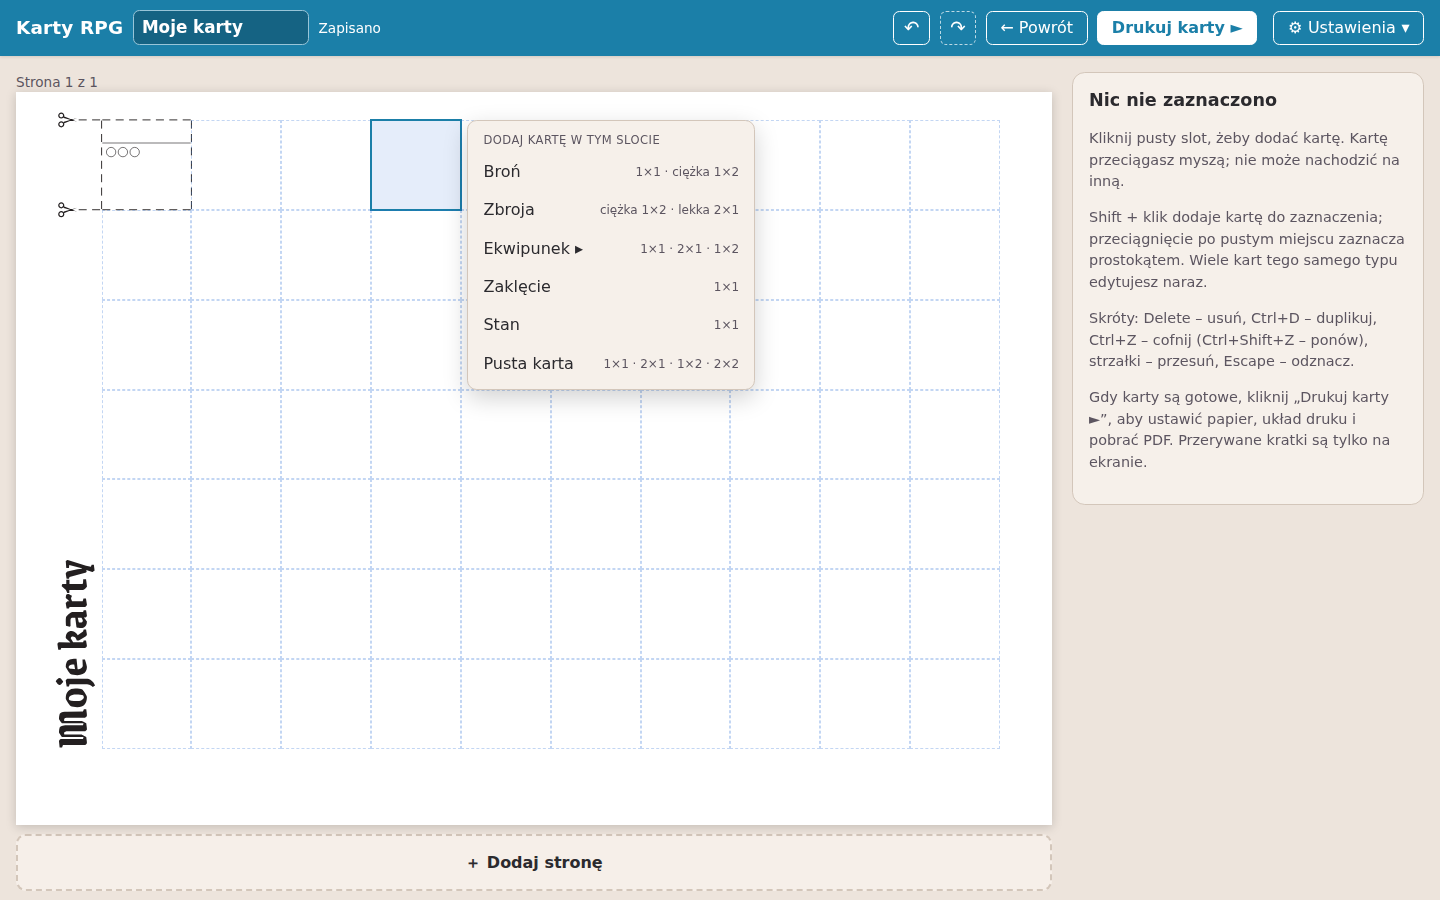
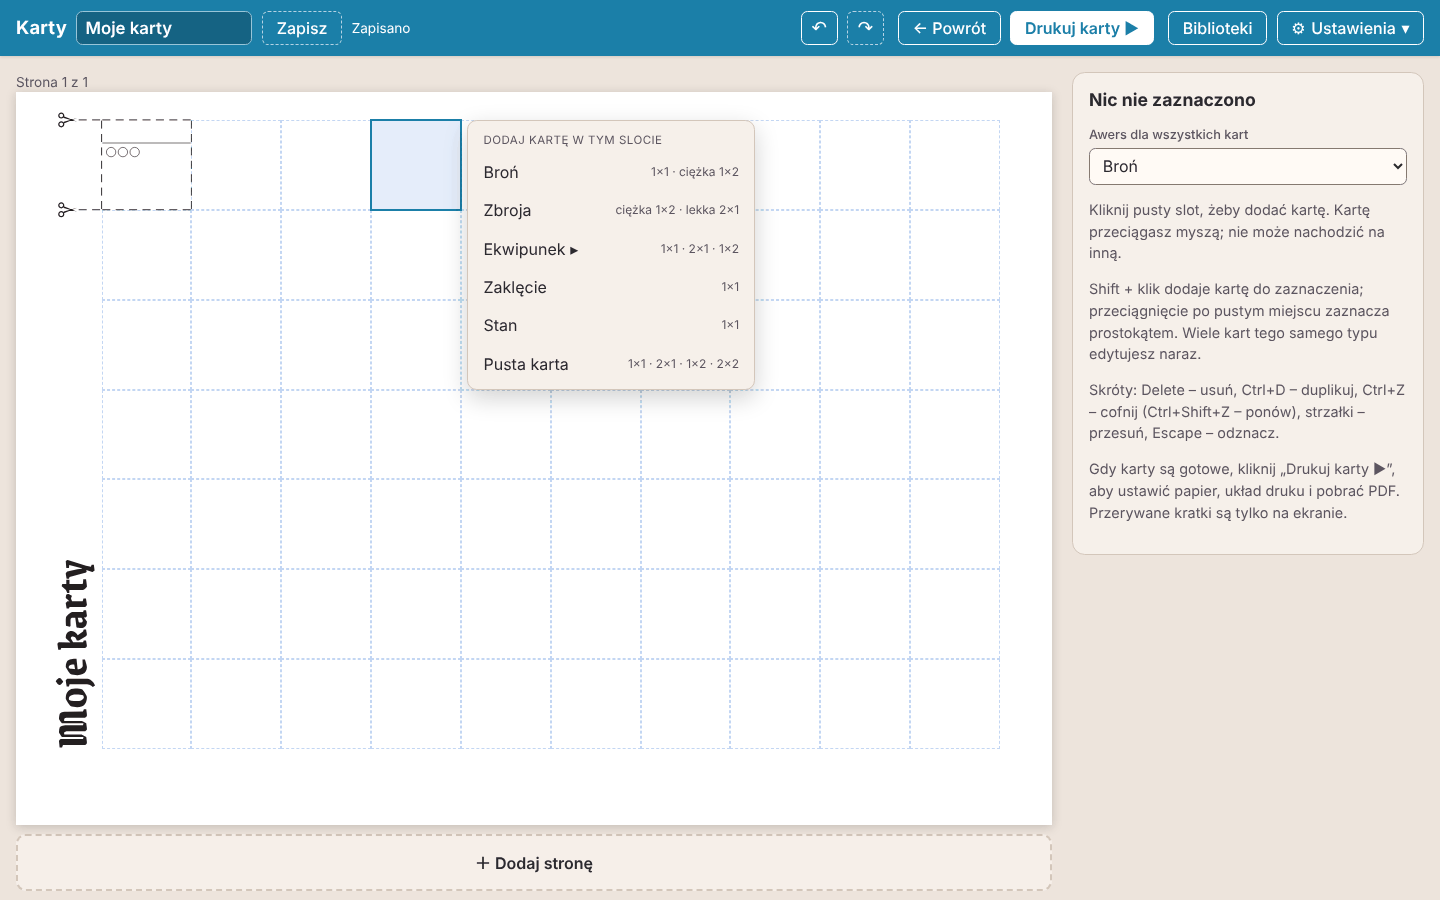
Instrukcja po N8: nowe zrzuty, zrzut Bibliotek, opisy wspólnej biblioteki (#101)
- Odświeżone wszystkie zrzuty instrukcji (PL i EN) z obecnego wyglądu aplikacji.
- Nowy zrzut „biblioteki” (zakładka Ozdobniki z zaimportowanym SVG) w sekcji Biblioteki.
- Generator zrzutów podmienia numer wersji w stopce na każdym ekranie.
- Tekst: tło i eksport szablonu z biblioteki, czcionki Google Fonts trafiają do biblioteki,
  import SVG przez okno z raportem i „Dodaj do biblioteki”, przyciski zakładki Ozdobniki,
  podpis zrzutu startu.

Claude-Session: https://claude.ai/code/session_01KHG9oNfKsbMdG6hS8f85sV

diff --git a/instrukcja/index.html b/instrukcja/index.html
@@ -245,8 +245,8 @@
               alt="Ekran startowy aplikacji w jasnym motywie, z trzema kolumnami"
             />
             <figcaption>
-              Ekran startowy: przyciski po lewej, „Moje projekty” pośrodku i „Importuj pliki…” po
-              prawej.
+              Ekran startowy: po lewej nowy projekt i nowy szablon, pośrodku zakładki „Moje
+              projekty” i „Moje szablony”, po prawej „Importuj pliki…”.
             </figcaption>
           </figure>
           <ol>
@@ -450,7 +450,7 @@
             </li>
             <li>
               W „Rodzaj tła” wybierz: „Brak” (papier), „Kolor”, „Obraz” (tekstura JPG/PNG z
-              biblioteki projektu) albo „Wzór”.
+              biblioteki) albo „Wzór”.
             </li>
             <li>
               Wzory: linie pionowe, linie poziome, kratka, romby (dwa zestawy linii ukośnych), linie
@@ -479,12 +479,16 @@
             <li>
               Kliknij „Importuj SVG…” i wybierz plik. Aplikacja sprawdza plik: usuwa skrypty, obrazy
               i odwołania do zewnętrznych plików. Tekst trzeba zamienić na krzywe, a plik może mieć
-              do 512 KB. Nowy ozdobnik od razu jest zaznaczony.
+              do 512 KB. Otworzy się okno importu z raportem, co pominięto, i podglądem.
             </li>
             <li>
-              W „Użyj jako” wskaż, do czego element służy: „motyw”, „narożnik”, „zakończenie”,
-              „środek separatora”, „kształt wartości” albo „ramka 9-slice”. W „Kolor” wybierz
-              „jednolity (kolorowalny)” albo „zachowaj kolory”. Zmiany zapisują się od razu.
+              W oknie w „Użyj jako” wskaż, do czego element służy: „motyw”, „narożnik”,
+              „zakończenie”, „środek separatora”, „kształt wartości” albo „ramka 9-slice”. W „Kolor”
+              wybierz „jednolity (kolorowalny)” albo „zachowaj kolory” i wpisz „Nazwa”.
+            </li>
+            <li>
+              Kliknij „Dodaj do biblioteki” („Anuluj” przerywa import). Nowy ozdobnik jest
+              zaznaczony, a jego ustawienia zmienisz w panelu obok. Zmiany zapisują się od razu.
             </li>
           </ol>
           <p>
@@ -932,8 +936,8 @@
             <li>
               W „Opcje druku i arkusza” oraz w „Biblioteki” (zakładka „Czcionki”) sekcja „Katalog
               Google Fonts” pozwala przeglądać kroje z polskimi znakami i dodawać je przyciskiem
-              „Pobierz”. Pobrana czcionka zapisuje się w projekcie i działa później bez dostępu do
-              sieci.
+              „Pobierz”. Pobrana czcionka trafia do biblioteki, jest dostępna we wszystkich
+              projektach i działa później bez dostępu do sieci.
             </li>
             <li>
               W sekcji „Opcje PDF” przełącznik „Niewidoczna warstwa tekstowa w PDF (wyszukiwanie i
@@ -1004,8 +1008,8 @@
           <ul>
             <li>
               W „Opcje druku i arkusza”, w sekcji „Szablony projektu”, kliknij „Eksportuj” przy
-              szablonie. Powstaje plik <code>.kartyrpg-szablon</code> z elementami biblioteki
-              ozdobników, których szablon używa. Podkład ze wzoru do niego nie trafia.
+              szablonie. Powstaje plik <code>.kartyrpg-szablon</code> z kopiami ozdobników, czcionek
+              i obrazów, których szablon używa. Podkład ze wzoru do niego nie trafia.
             </li>
             <li>
               „Importuj szablon…” w tej samej sekcji albo „Importuj szablon” na ekranie „Stwórz
@@ -1046,6 +1050,19 @@
             układ: przycisk „Dodaj…”, pole wyszukiwania po nazwie i podglądy. Przy każdym podglądzie
             są przyciski „Zmień nazwę”, „Pobierz” i „Usuń”.
           </p>
+          <figure>
+            <img
+              src="/instrukcja-zrzuty/pl/biblioteki.png"
+              width="1440"
+              height="900"
+              loading="lazy"
+              alt="Strona Biblioteki na zakładce Ozdobniki z jednym własnym ozdobnikiem i jego ustawieniami obok"
+            />
+            <figcaption>
+              Zakładka „Ozdobniki” po imporcie pliku SVG. Po prawej podgląd na karcie i wybór „Użyj
+              jako”.
+            </figcaption>
+          </figure>
           <ul>
             <li>
               „Obrazy” to pliki PNG i JPG. Ten sam plik wgrany drugi raz nie tworzy nowego wpisu.
@@ -1057,7 +1074,8 @@
             </li>
             <li>
               „Ozdobniki” to ozdobniki i ramki: plik SVG, PNG (ramka 9-slice z wcięciami po trzecim)
-              albo paczka <code>.kartyrpg-ozdobnik</code>. „Pobierz” zapisuje paczkę do pliku.
+              albo paczka <code>.kartyrpg-ozdobnik</code>. Oprócz „Dodaj…” są tu przyciski „Importuj
+              SVG…” (okno z raportem) i „Dodaj ramkę z PNG…”. „Pobierz” zapisuje paczkę do pliku.
               Kliknięcie podglądu otwiera ustawienia ozdobnika: rodzaj, kolor, nazwę, prostokąt na
               tekst kształtu i wcięcia ramki 9-slice. Ozdobniki systemowe są widoczne do wglądu.
             </li>
@@ -1160,8 +1178,8 @@
               alt="The start screen in the light theme, with three columns"
             />
             <figcaption>
-              The start screen: buttons on the left, “My projects” in the middle and “Import files…”
-              on the right.
+              The start screen: a new project and a new template on the left, the “My projects” and
+              “My templates” tabs in the middle and “Import files…” on the right.
             </figcaption>
           </figure>
           <ol>
@@ -1367,7 +1385,7 @@
             </li>
             <li>
               In “Background type” choose “None” (paper), “Colour”, “Image” (a JPG/PNG texture from
-              the project library) or “Pattern”.
+              the library) or “Pattern”.
             </li>
             <li>
               Patterns: vertical lines, horizontal lines, grid, diamonds (two sets of diagonal
@@ -1397,12 +1415,17 @@
             <li>
               Click “Import SVG…” and choose a file. The app checks the file and removes scripts,
               images and references to external files. Text has to be converted to outlines, and the
-              file can be up to 512 KB. The new ornament is selected right away.
+              file can be up to 512 KB. An import window opens with a report of what was skipped and
+              a preview.
             </li>
             <li>
-              Under “Use as”, say what the element is for: “pattern”, “corner”, “end cap”, “divider
-              center”, “value shape” or “9-slice frame”. Under “Color”, choose “solid (recolorable)”
-              or “keep the colors”. Changes are saved at once.
+              In the window, under “Use as”, say what the element is for: “pattern”, “corner”, “end
+              cap”, “divider center”, “value shape” or “9-slice frame”. Under “Color”, choose “solid
+              (recolorable)” or “keep the colors”, and fill in “Name”.
+            </li>
+            <li>
+              Click “Add to the library” (“Cancel” stops the import). The new ornament is selected,
+              and you can change its settings in the panel next to it. Changes are saved at once.
             </li>
           </ol>
           <p>
@@ -1847,7 +1870,8 @@
             <li>
               In “Print &amp; sheet options” and in “Libraries” (the “Fonts” tab), “Google Fonts
               catalog” lists typefaces with Polish glyphs that you can add with “Download”. A
-              downloaded typeface stays inside the project and works offline.
+              downloaded typeface goes to the library, is available in all projects and works
+              offline.
             </li>
             <li>
               Under “PDF options”, “Invisible text layer in PDF (search and copy)” places searchable
@@ -1919,8 +1943,9 @@
           <ul>
             <li>
               In “Print &amp; sheet options”, in the “Project templates” section, click “Export”
-              next to a template. You get a <code>.kartyrpg-szablon</code> file with the ornament
-              library elements the template uses. The reference image does not go into it.
+              next to a template. You get a <code>.kartyrpg-szablon</code> file with copies of the
+              ornaments, fonts and images the template uses. The reference image does not go into
+              it.
             </li>
             <li>
               “Import a template…” in the same section, or “Import a template” on the “Create your
@@ -1961,6 +1986,19 @@
             the same layout: an “Add…” button, a search box by name and previews. Each preview has
             “Rename”, “Download” and “Delete” buttons.
           </p>
+          <figure>
+            <img
+              src="/instrukcja-zrzuty/en/biblioteki.png"
+              width="1440"
+              height="900"
+              loading="lazy"
+              alt="The Libraries page on the Ornaments tab with one custom ornament and its settings next to it"
+            />
+            <figcaption>
+              The “Ornaments” tab after importing an SVG file. On the right: a preview on a card and
+              the “Use as” choice.
+            </figcaption>
+          </figure>
           <ul>
             <li>
               “Images” are PNG and JPG files. Uploading the same file again adds no new entry.
@@ -1972,10 +2010,11 @@
             </li>
             <li>
               “Ornaments” are ornaments and frames: an SVG file, a PNG (a 9-slice frame with insets
-              at one third) or a <code>.kartyrpg-ozdobnik</code> package. “Download” saves the
-              package to a file. Clicking a preview opens the ornament settings: kind, color, name,
-              the text box of a shape and the insets of a 9-slice frame. System ornaments are shown
-              for reference.
+              at one third) or a <code>.kartyrpg-ozdobnik</code> package. Besides “Add…”, this tab
+              has “Import SVG…” (a window with a report) and “Add a frame from PNG…”. “Download”
+              saves the package to a file. Clicking a preview opens the ornament settings: kind,
+              color, name, the text box of a shape and the insets of a 9-slice frame. System
+              ornaments are shown for reference.
             </li>
             <li>
               “Delete” on an entry used by a project first shows the names of those projects and a

diff --git a/testy/zrzuty-instrukcji.spec.ts b/testy/zrzuty-instrukcji.spec.ts
@@ -68,6 +68,10 @@ for (const [jezyk, motyw] of JEZYKI_ZRZUTOW.flatMap((j) => motywy.map((m) => [j,
       }
       const status = page.locator('.status-zapisu');
       if (await status.count()) await expect(status).toHaveText(t('projekt.zapisano'));
+      // Bez numeru wersji w stopce (zrzut ma być taki sam po każdej zmianie wersji).
+      const stopka = page.locator('.stopka span').first();
+      if (await stopka.count())
+        await stopka.evaluate((el, nazwa) => (el.textContent = nazwa), t('aplikacja.nazwa'));
       await page.mouse.move(0, 0);
       await page.screenshot({
         path: galeria
@@ -98,11 +102,6 @@ for (const [jezyk, motyw] of JEZYKI_ZRZUTOW.flatMap((j) => motywy.map((m) => [j,
     test('start', async ({ page }) => {
       await page.goto('./');
       await expect(page.getByRole('heading', { name: t('start.mojeProjekty') })).toBeVisible();
-      // Bez numeru wersji w stopce (zrzut ma być taki sam po każdej zmianie wersji).
-      await page
-        .locator('.stopka span')
-        .first()
-        .evaluate((el, nazwa) => (el.textContent = nazwa), t('aplikacja.nazwa'));
       await zapisz(page, 'start');
     });
 
@@ -175,6 +174,20 @@ for (const [jezyk, motyw] of JEZYKI_ZRZUTOW.flatMap((j) => motywy.map((m) => [j,
         .locator('legend', { hasText: t('uklad.kalibracja') })
         .evaluate((el) => el.scrollIntoView({ block: 'start' }));
       await zapisz(page, 'ustawienia');
+    });
+    test('biblioteki z zaimportowanym ozdobnikiem', async ({ page }) => {
+      const nazwa = jezyk === 'pl' ? 'Gwiazdka' : 'Star';
+      await page.goto('./#/biblioteki/ozdobniki');
+      await page.getByTestId('plik-svg').setInputFiles('testy/zasoby/gwiazdka.svg');
+      await page.getByLabel(t('biblioteka.nazwa'), { exact: true }).fill(nazwa);
+      await page.getByRole('button', { name: t('biblioteka.import.dodaj') }).click();
+      await expect(
+        page.getByTestId('siatka-biblioteki').getByRole('button', {
+          name: nazwa,
+          exact: true,
+        }),
+      ).toBeVisible();
+      await zapisz(page, 'biblioteki');
     });
     if (galeria) {
       test('własne karty', async ({ page }) => {

diff --git a/src/instrukcja/tresc.test.ts b/src/instrukcja/tresc.test.ts
@@ -403,9 +403,16 @@ describe('parytet sekcji PL ↔ EN', () => {
 });
 
 describe('zrzuty ekranu w treści', () => {
-  const NAZWY = ['start', 'mausritter', 'edytor-kartki', 'edytor-szablonu', 'ustawienia'];
+  const NAZWY = [
+    'start',
+    'mausritter',
+    'edytor-kartki',
+    'edytor-szablonu',
+    'ustawienia',
+    'biblioteki',
+  ];
 
-  it.each(JEZYKI)('(%s) pięć rysunków z alt, podpisem, wymiarami i loading=lazy', (j) => {
+  it.each(JEZYKI)('(%s) sześć rysunków z alt, podpisem, wymiarami i loading=lazy', (j) => {
     const rysunki = [...artykul(j).querySelectorAll('figure')];
     expect(rysunki.map((f) => f.querySelector('img')!.getAttribute('src'))).toEqual(
       NAZWY.map((n) => `/instrukcja-zrzuty/${j}/${n}.png`).sort(

diff --git a/testy/zrzutyInstrukcji.ts b/testy/zrzutyInstrukcji.ts
@@ -10,6 +10,7 @@ export const NAZWY_ZRZUTOW = [
   'edytor-kartki',
   'edytor-szablonu',
   'ustawienia',
+  'biblioteki',
 ] as const;
 
 /** Rozmiar okna przeglądarki, a więc i zrzutu (deviceScaleFactor 1). */

diff --git a/docs/plan-N8.md b/docs/plan-N8.md
@@ -95,3 +95,6 @@ dla tych rodzajów i widoku biblioteki projektu; teksty, instrukcja, SPEC.
   domyślnej aplikacji (EB Garamond z `public/czcionki`).
 - N8c: dodatkowo naprawione angielskie „Gotowe” („Ready-made” → „Done”).
 - Czcionki: ten sam plik pod inną rodziną lub wariantem to osobny wpis (poprawka po CI N8a).
+- Instrukcja po N8: odświeżone wszystkie zrzuty (`public/instrukcja-zrzuty/`), nowy szósty zrzut
+  `biblioteki` (zakładka „Ozdobniki” z zaimportowanym SVG) w sekcji „Biblioteki”; generator
+  zrzutów podmienia numer wersji w stopce na każdym ekranie, nie tylko na starcie.
